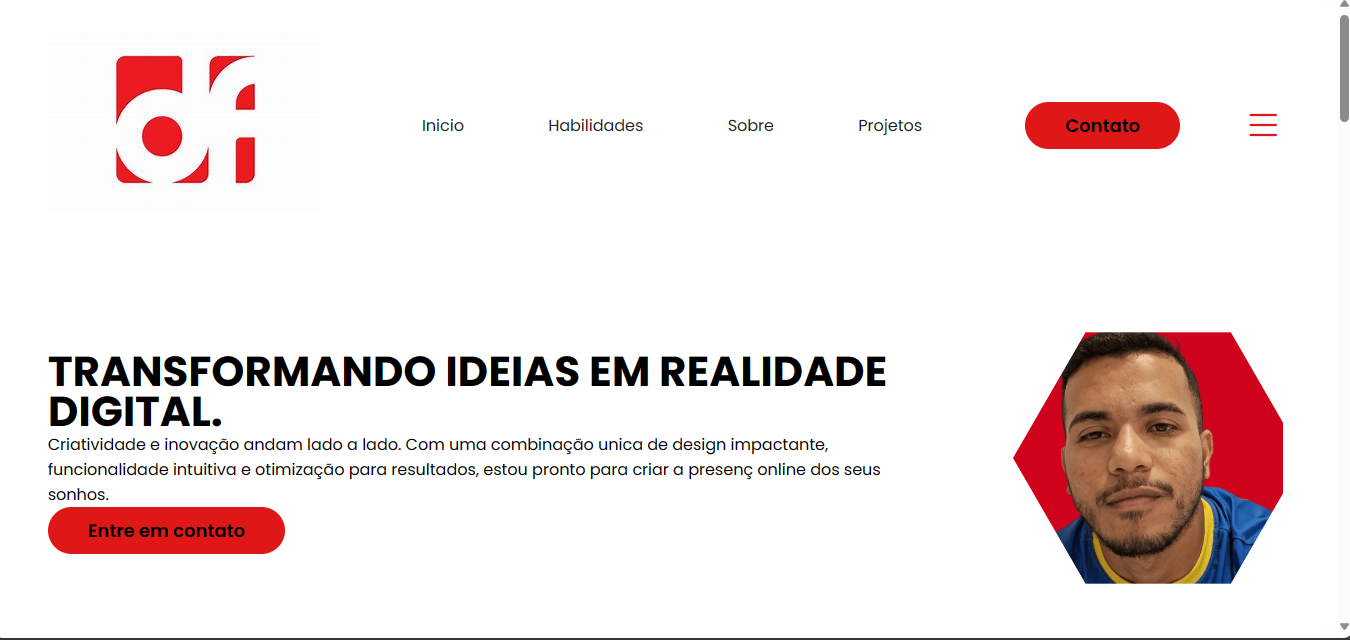
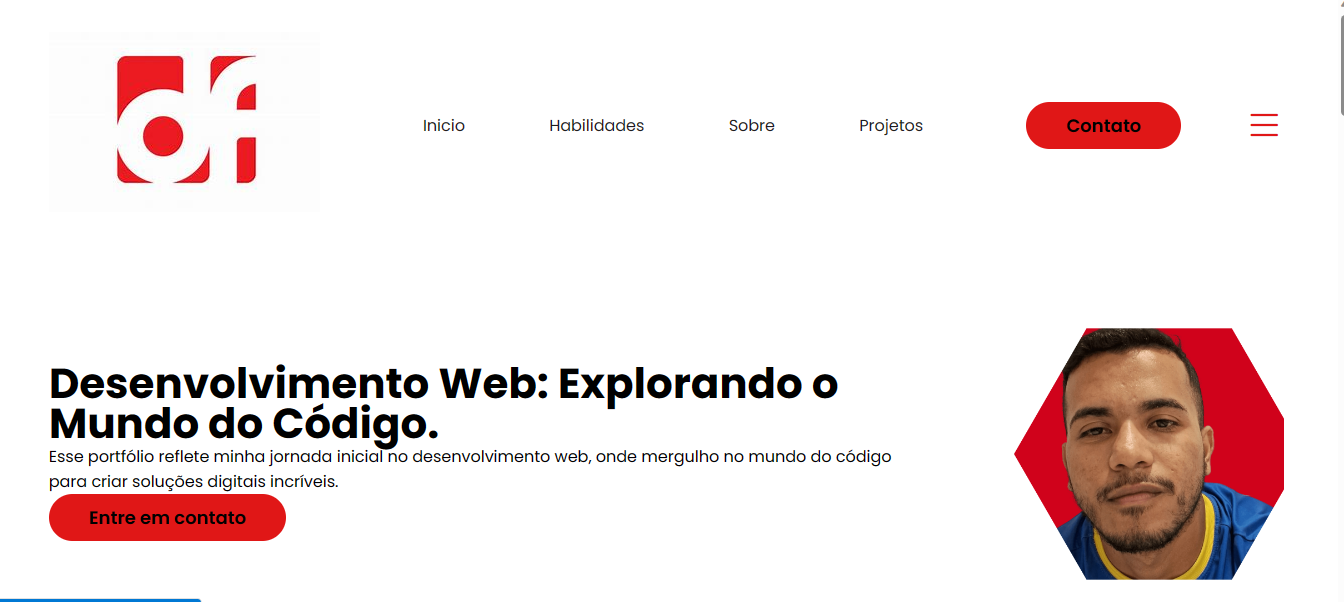
arquivos iniciais

diff --git a/index.html b/index.html
@@ -1,11 +1,202 @@
 <!DOCTYPE html>
-<html lang="en">
+<html lang="pt-br">
 <head>
     <meta charset="UTF-8">
     <meta name="viewport" content="width=device-width, initial-scale=1.0">
-    <title>Document</title>
+    <!--GOOGLE FONTS-->
+    <link rel="preconnect" href="https://fonts.googleapis.com">
+    <link rel="preconnect" href="https://fonts.gstatic.com" crossorigin>
+    <link href="https://fonts.googleapis.com/css2?family=Poppins:ital,wght@0,100;0,200;0,300;0,400;0,500;0,600;0,700;0,800;0,900;1,100;1,200;1,300;1,400;1,500;1,600;1,700;1,800;1,900&display=swap" rel="stylesheet">
+    <!--FIM GOOGLE FONTS-->
+    <!--Bootstrap icons-->
+    <link rel="stylesheet" href="https://cdn.jsdelivr.net/npm/bootstrap-icons@1.10.5/font/bootstrap-icons.css">
+    <!--Bootstrap icons-->
+    <link rel="stylesheet" href="style.css">
+
+    <script src="menu.js" defer></script>
+
+    <title>Agencia Df</title>
 </head>
 <body>
     
+    <header>
+        <div class="interface">
+            <div class="logo">
+                <a href="#tela-inicio">
+                    <img src="./images/Logo-Df.jpg" alt="Logo da agencia DF" id="tela-inicio">
+                </a>
+            </div><!--logo-->
+
+            <nav class="menu-desktop">
+                <ul>
+                    <li><a href="#tela-inicio">Inicio</a></li>
+                    <li><a href="#habilidades">Habilidades</a></li>
+                    <li><a href="#txt-sobre">Sobre</a></li>
+                    <li><a href="#projetos-portfolio">Projetos</a></li>
+            </nav>
+
+            <div class="btn-contato">
+                <a href="#entre-em-contato">
+                    <button>Contato</button>
+                </a>
+            </div><!--btn-contato-->
+
+            <div class="btn-abrir-menu" id="btn-menu">
+                <i class="bi bi-list"></i>
+            </div>
+
+            <div class="menu-mobile" id="menu-mobile">
+                <div class="btn-fechar">
+                    <i class="bi bi-x-circle-fill"></i>
+                </div>
+
+                <nav>
+                    <ul>
+                        <li><a href="#tela-inicio">Inicio</a></li>
+                        <li><a href="#habilidades">Habilidades</a></li>
+                        <li><a href="#txt-sobre">Sobre</a></li>
+                        <li><a href="#projetos-portfolio">Projetos</a></li>
+                        <li><a href="#entre-em-contato">Contato</a></li>
+                </nav>
+                
+                </div><!--menu mobile-->
+                <div class="overlay-menu" id="overlay-menu"></div>
+        </div><!--interface-->
+    </header>
+
+    <main>
+        <section class="topo-do-site">
+            <div class="interface">
+                <div class="flex">
+                    <div class="txt-topo-site">
+                        <h1>Desenvolvimento Web: Explorando o Mundo do Código<span>.</span></h1>
+                        <p>Esse portfólio reflete minha jornada inicial no desenvolvimento web,
+                            onde mergulho no mundo do código para criar soluções digitais incríveis.</p>
+                            <div class="btn-contato">
+                                <a href="#entre-em-contato">
+                                    <button>Entre em contato</button>
+                                </a>
+                            </div>
+                    </div><!--txt-topo-site-->
+
+                    <div class="img-topo-site">
+                        <img src="./images/DxImage.png" alt="" 
+                        width="300px" height="300px">
+                    </div>
+                </div>
+            </div><!--interface-->
+        </section><!--topo-do-site-->
+
+        <section class="especialidades">
+            <div class="interface">
+                <h2 class="titulo" id="habilidades">MINHAS <span>ESPECIALIDADES.</span></h2>
+                <div class="flex">
+                    <div class="especialidades-box">
+                        <i class="bi bi-code-square"></i>
+                        <h3>WebSite</h3>
+                        <p> um website responsivo e interativo desenvolvido com maestria em HTML, CSS e JavaScript.
+                            Explorando uma experiência digital inovadora e envolvente que reflete minha dedicação
+                            à excelência em design e funcionalidade.</p>
+                    </div><!--especialidades-box-->
+
+                    <div class="especialidades-box">
+                        <i class="bi bi-cart"></i>
+                        <h3>Loja Online</h3>
+                        <p>Desenvolvi o front-end de uma loja online de ponta, criando uma interface intuitiva,
+                            visualmente atraente e responsiva para proporcionar aos clientes uma experiência
+                            de compra perfeita.</p>
+                    
+                    </div><!--especialidades-box-->
+                    <div class="especialidades-box">
+                        <i class="bi bi-credit-card-2-front"></i>
+                        <h3>Blog</h3>
+                        <p>Criei a parte visual desse blog(portfolio), cuidando da interface para torná-la amigável e atrativa,
+                            garantindo uma experiência de leitura agradável e envolvente para os visitantes.</p>
+                    </div><!--especialidades-box-->
+                </div><!--flex-->
+            </div><!--interface-->
+        </section><!--especialidades-->
+        <section class="sobre">
+            <div class="interface">
+                <div class="flex">
+
+                    <div class="img-sobre">
+                        <img src="./images/DxImage.png" alt="" height="300px" width="300px">
+
+                    </div><!--img-sobre-->
+                    <div class="txt-sobre" id="txt-sobre">
+                        <h2>MUITO PRAZER, <span>SOU DOUGLAS FERREIRA</span></h2>
+                        <P>Desde que me interesei na área de programação, estudo diariamente para conseguir a minha primeira
+                            oportunidade. Há 9 meses venho desenvolvendo projetos para colocar em pratica todo o meu conhecimento
+                            e tenho a certeza que estou preparado para somar na sua equipe de programadores.
+                        </P>
+                        <P>Tenho facillidade de aprendizado, boa comunicção, boa relação interpessoal e a todo momento busco me aprimorar cada vez mais. </P>
+                        <div class="btn-social">
+                            <a href="https://www.instagram.com/douglas.ferreirax/"><button><i class="bi bi-instagram"></i></button></a>
+                            <a href="https://www.linkedin.com/in/douglas-ferreira-296496171/"><button><i class="bi bi-linkedin"></i></button></a>
+                            <a href="https://github.com/DouglasFerreiraDev"><button><i class="bi bi-github"></i></button></a>
+                        </div><!--btn-social-->
+                    </div><!--txt-sobre-->
+                </div><!--flex-->
+            </div><!--interface-->
+        </section><!--sobre-->
+
+        <section class="portfolio" id="projetos-portfolio">
+            <div class="interface">
+                <h2 class="titulo">MEU <span>PORTFÓLIO.</span></h2>
+                <div class="flex">
+
+                    <div class="img-port" style="background-image: url(./images/Captura\ de\ tela\ 2023-09-05\ 093727.png)">
+                        <div class="overlay">Loja Ecomercer</div>
+                    </div>
+
+                    <div class="img-port" style="background-image: url(./images/projeto-2.png)"><div class="overlay">Interface De Login</div>
+                </div>
+
+                    <div class="img-port" style="background-image: url(./images/tela-portfolio.png)"><div class="overlay">Projeto 3
+                    </div>
+                    </div>
+                </div><!--flex-->
+            </div><!--interface-->
+        </section><!--portfolio-->
+
+        <section class="formulario">
+            <div class="interface">
+                <h2 class="titulo">FALA <span>COMIGO.</span></h2>
+
+                <form action="">
+                    <input type="text" name="" id="" placeholder="seu nome completo" required>
+                    <input type="text" name="" id="" placeholder="seu Email" required>
+                    <input type="text" name="" id="" placeholder="seu Celular">
+                    <textarea name="" id="" placeholder="sua Mensagem" required></textarea>
+                    <div class="btn-enviar"><input type="submit" value="ENVIAR"></div>
+                </form>
+            </div>
+        </section>
+    </main>
+
+    <footer>
+        <div class="interface">
+            <div class="line-footer">
+                <div class="flex">
+                    <div class="logo-footer">
+                        <a href="#tela-inicio">
+                        <img src="./images/Logo-Df.jpg" alt="Logotipo Agencia DF">
+                    </div><!--logo footer-->
+                    <div class="btn-social">
+                        <a href="https://www.instagram.com/douglas.ferreirax/"><button><i class="bi bi-instagram"></i></button></a>
+                        <a href="https://www.linkedin.com/in/douglas-ferreira-296496171/"><button><i class="bi bi-linkedin"></i></button></a>
+                        <a href="https://github.com/DouglasFerreiraDev"><button><i class="bi bi-github"></i></button></a></a>
+                    </div><!--btn-social-->
+                </div>
+            </div><!--line-footer-->
+
+            <div class="line-footer borda" id="entre-em-contato">
+                <p><i class="bi bi-whatsapp"></i>(85)99817-9643</p>
+            <p><i class="bi bi-envelope-at"></i> <a href="mailto:douglasfer.dev@gmail.com">douglasfer.dev@gmail.com
+            </a></p>
+            </div><!--line-footer-->
+        </div><!--interface-->
+    </footer>
 </body>
 </html>

diff --git a/menu.js b/menu.js
@@ -1,0 +1,16 @@
+
+let btnMenu = document.getElementById('btn-menu')
+let menu = document.getElementById('menu-mobile')
+let overlay = document.getElementById('overlay-menu')
+
+btnMenu.addEventListener('click', ()=>{
+    menu.classList.add('abrir-menu')
+})
+
+menu.addEventListener('click', ()=>{
+    menu.classList.remove('abrir-menu')
+})
+
+overlay.addEventListener('click', ()=>{
+    menu.classList.remove('abrir-menu')
+})
